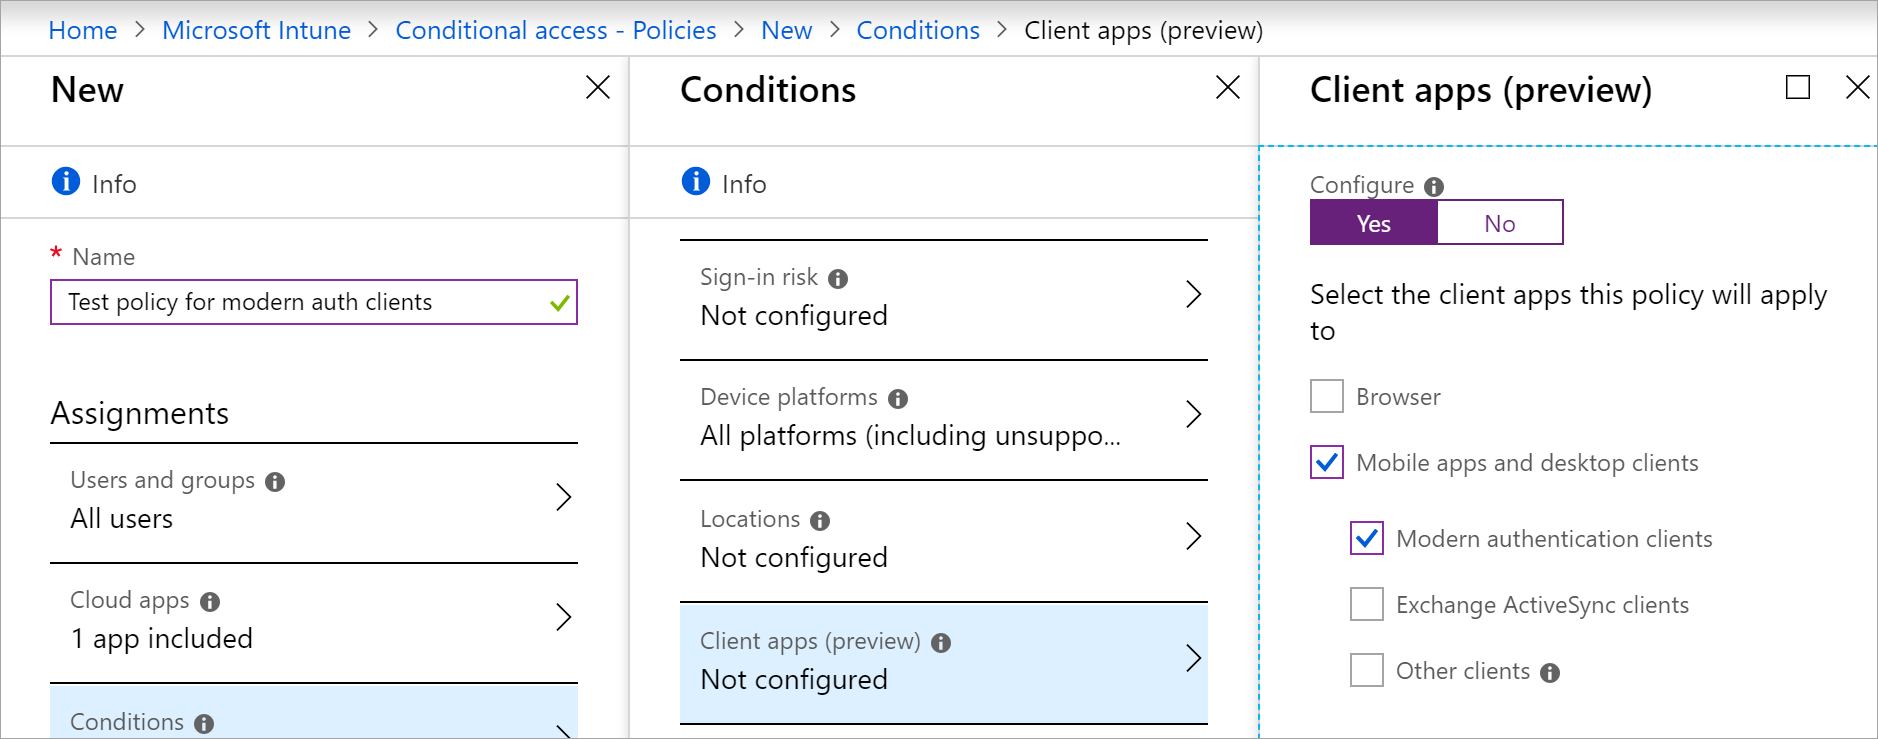
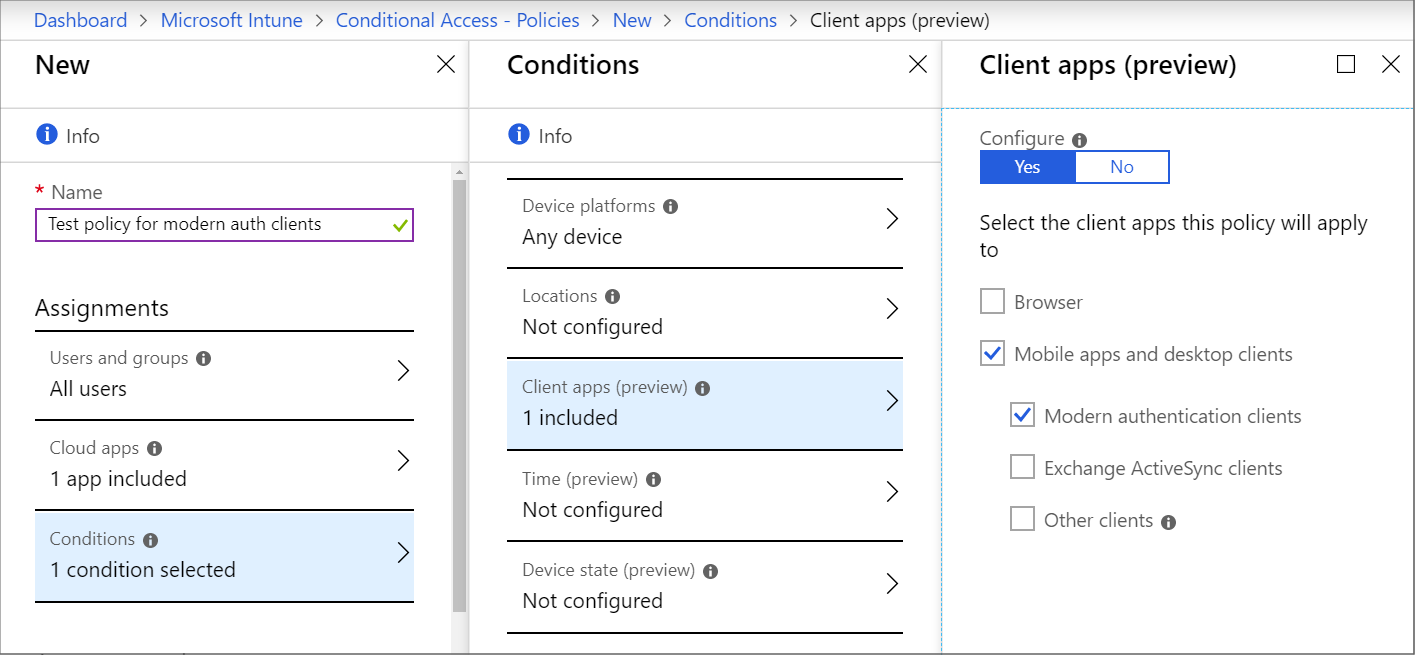
Updated image and UI references = Github issue

diff --git a/intune/tutorial-protect-email-on-unmanaged-devices.md b/intune/tutorial-protect-email-on-unmanaged-devices.md
@@ -8,7 +8,7 @@ keywords:
 author: brenduns
 ms.author: brenduns
 manager: dougeby
-ms.date: 12/11/2018
+ms.date: 03/26/2019
 ms.topic: tutorial
 ms.prod:
 ms.service: microsoft-intune
@@ -95,8 +95,8 @@ Now we’ll create two conditional access policies to cover all device platforms
 5.	Under **Assignments**, select **Conditions** > **Device platforms**.
      
     1. Under **Configure**, select **Yes**.
-    2. On the **Include** tab, select **All platforms (including unsupported)**. 
-    3. Select **Done**.
+    2. On the **Include** tab, select **Any device**.
+    1. Select **Done**.
    
 6.	On the **Conditions** pane, select **Client apps**.
      
@@ -140,7 +140,7 @@ The conditional access policy for Modern Authentication clients is created. Now 
 5.	Under **Assignments**, select **Conditions** > **Device platforms**.
      
     1. Under **Configure**, select **Yes**.
-    2. On the **Include** tab, select **All platforms (including unsupported)**, and then select **Done**. 
+    2. On the **Include** tab, select **Any device**, and then select **Done**. 
     3. Select **Done** again.
 
 6.	On the **Conditions** pane, select **Client apps**.

diff --git a/intune/quickstart-email-profile.md b/intune/quickstart-email-profile.md
@@ -8,7 +8,7 @@ keywords:
 author: brenduns
 ms.author: brenduns
 manager: dougeby
-ms.date: 10/29/2018
+ms.date: 03/26/2019
 ms.topic: quickstart
 ms.prod:
 ms.service: microsoft-intune
